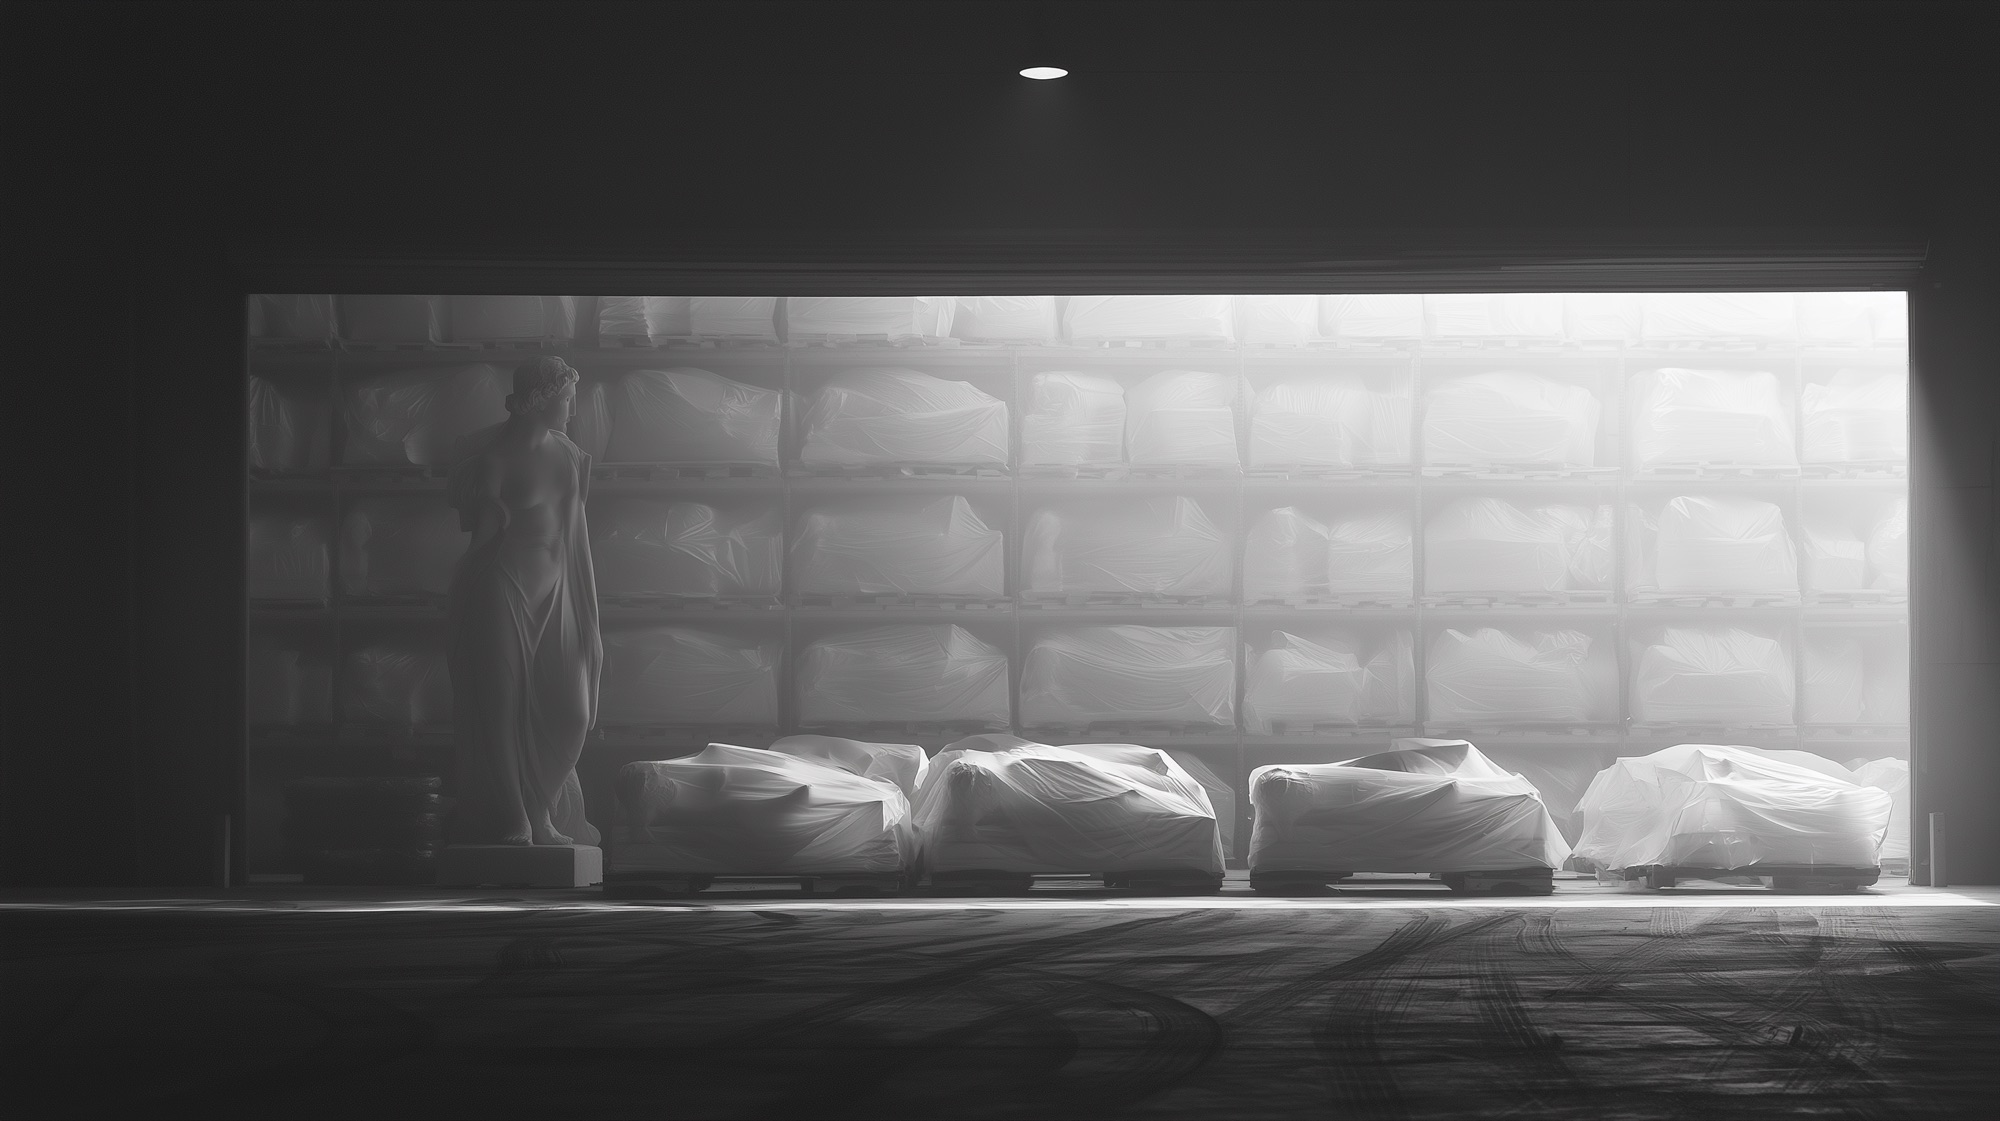
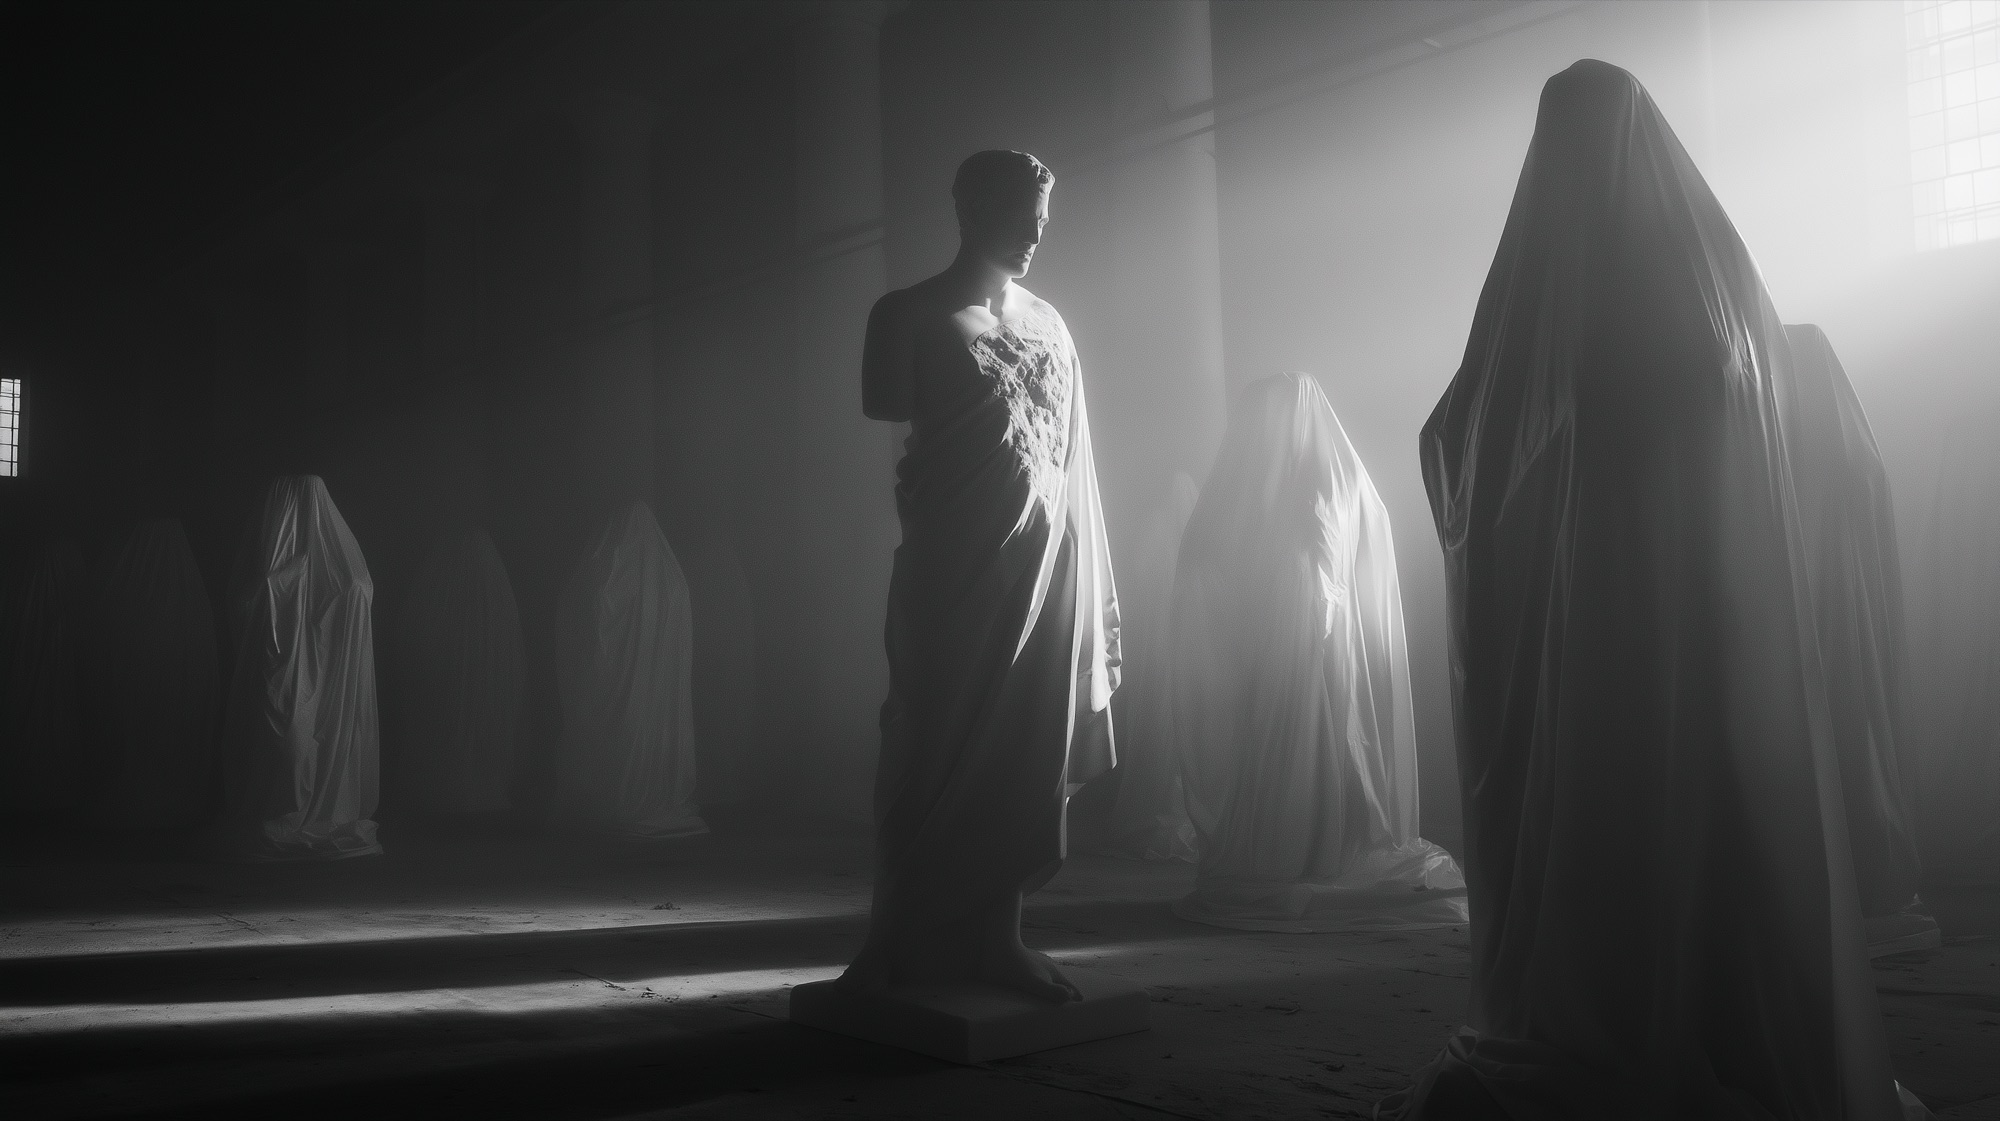
three plates and a new gate
The gate is the statue standing among the shrouded ones. Inside the
text, three plates break out of the reading column but stay short of
full bleed: the mold under the line about producing a certain kind of
good, the discarded head at the end of good is getting cheap, the
wrapped inventory under then what.

The light theme bakes all four now. It only ever bakes the gate before.

diff --git a/after/demo.html b/after/demo.html
@@ -88,6 +88,20 @@
   figure.gate canvas { display: none; position: absolute; inset: 0; }
   html.light figure.gate img { visibility: hidden; }
   html.light figure.gate canvas { display: block; }
+  /* the plates: three moments in the same hall. they break out of the
+     reading column but stay short of the gate, so the gate stays the
+     only full-bleed image */
+  figure.plate {
+    margin: 13vh 0; position: relative; left: 50%; transform: translateX(-50%);
+    width: min(860px, calc(100vw - 64px));
+  }
+  figure.plate .pw { position: relative; }
+  figure.plate img, figure.plate canvas {
+    display: block; width: 100%; height: auto;
+  }
+  figure.plate canvas { display: none; position: absolute; inset: 0; }
+  html.light figure.plate img { visibility: hidden; }
+  html.light figure.plate canvas { display: block; }
   /* listen: the article's own voice, drawn as it actually sounds. the
      bars are the recording, lit behind the playhead and dim ahead of it.
      press the word to start, press the sound to go somewhere */
@@ -174,7 +188,7 @@
 </header>
 <audio id="au" src="./audio.mp3" preload="metadata"></audio>
 <figure class="gate">
-  <img src="./hero.jpg" alt="Plaster casts of the same classical statue, stacked and shrink-wrapped on pallet racking in a concrete warehouse" />
+  <img src="./hero.jpg" alt="One unwrapped plaster cast of a classical statue standing among identical shrouded ones in a hazy hall" />
   <canvas aria-hidden="true"></canvas>
 </figure>
 <div class="player">
@@ -212,6 +226,9 @@
   <p>And a lot of good things came from it. We learned to reduce. We built component systems. We created common interaction patterns. We made increasingly complex software understandable to increasingly large audiences.</p>
   <p>But there was a side effect.</p>
   <p><strong>We became extremely good at producing a certain kind of good.</strong></p>
+  <figure class="plate">
+    <div class="pw"><img src="./negative.jpg" alt="An open plaster mold beside the head it was pulled from, standing in a shaft of light" loading="lazy" /><canvas aria-hidden="true"></canvas></div>
+  </figure>
   <p>Look at enough modern SaaS products and something becomes obvious. Most of them are not badly designed. Quite the opposite. They are remarkably competent.</p>
   <p>The typography works. The spacing works. The hierarchy works. The interactions make sense. And yet it can be surprisingly difficult to remember which one you were looking at five minutes later.</p>
   <p>We spent years codifying what good digital design looks like. We turned judgment into patterns. Patterns into components. Components into libraries. Libraries into systems.</p>
@@ -226,6 +243,9 @@
   <p>The baseline rises. What was impressive becomes expected. What was expensive becomes accessible.</p>
   <p>And when the cost of reaching the current standard collapses, we can use that efficiency in two ways. We can produce more of the existing standard. Or we can use it to move the standard.</p>
   <p>We will obviously do both. But creatively, I&#x27;m much more interested in the second.</p>
+  <figure class="plate">
+    <div class="pw"><img src="./rest.jpg" alt="A plaster head lying in a drift of its own dust, the wrapping torn open beside it" loading="lazy" /><canvas aria-hidden="true"></canvas></div>
+  </figure>
   <h2>The cost of curiosity has fallen</h2>
   <p>For years, there were countless things we simply didn&#x27;t do because they weren&#x27;t worth the effort. Details that would never survive prioritization. Experiments too expensive to validate. Ideas that required too much engineering. Entire directions that died with some version of: <em>that&#x27;s cool, but it&#x27;s too much work.</em></p>
   <p>Those constraints didn&#x27;t just determine how long things took. <strong>They shaped what we allowed ourselves to imagine.</strong></p>
@@ -246,6 +266,9 @@
   <p>And this changes what it means to be good at making them. If AI can increasingly reproduce what we currently consider good, then reproducing good cannot remain the thing that makes us valuable.</p>
   <p>And I don&#x27;t think the comforting answer is: <em>humans are creative, AI isn&#x27;t.</em> I wouldn&#x27;t bet my career on that assumption. AI will get better. The generic baseline will keep moving upward.</p>
   <p>So assume AI becomes exceptionally good at reproducing what we consider good today. Then what?</p>
+  <figure class="plate">
+    <div class="pw"><img src="./storage.jpg" alt="Identical plaster casts shrink-wrapped on pallet racking in a concrete warehouse" loading="lazy" /><canvas aria-hidden="true"></canvas></div>
+  </figure>
   <p>I think part of our job moves upstream. Toward judgment. Toward taste. Toward seeing cultural and technological shifts while they are happening. Toward connecting things that don&#x27;t yet obviously belong together. Toward deciding what deserves to exist before there is a pattern for it. Toward creating the references that tomorrow&#x27;s models will eventually learn from.</p>
   <p>AI can make the existing standard extraordinarily cheap. Our response shouldn&#x27;t be to defend the price of producing it. <strong>It should be to create what the new standard becomes.</strong></p>
   <h2>Move the standard</h2>
@@ -399,16 +422,15 @@ window.__solid = (mx, my) => {
 // ---- the gate in the light theme: the same photograph, rebuilt from
 // the theme's own two colors. shadows sink into the blue, light rises
 // into the yellow. baked once, on demand ----
-const gateImg = document.querySelector('figure.gate img');
-const gateCv = document.querySelector('figure.gate canvas');
-let duoBaked = false;
-function bakeDuo() {
-  if (duoBaked || !gateImg.naturalWidth) return;
-  const w = Math.min(1600, gateImg.naturalWidth);
-  const h = Math.round(gateImg.naturalHeight * w / gateImg.naturalWidth);
-  gateCv.width = w; gateCv.height = h;
-  const x = gateCv.getContext('2d');
-  x.drawImage(gateImg, 0, 0, w, h);
+const plates = [...document.querySelectorAll('figure.gate, figure.plate')]
+  .map(f => ({ img: f.querySelector('img'), cv: f.querySelector('canvas'), done: false }));
+function bakeOne(p) {
+  if (p.done || !p.img.naturalWidth) return;
+  const w = Math.min(1600, p.img.naturalWidth);
+  const h = Math.round(p.img.naturalHeight * w / p.img.naturalWidth);
+  p.cv.width = w; p.cv.height = h;
+  const x = p.cv.getContext('2d');
+  x.drawImage(p.img, 0, 0, w, h);
   const d = x.getImageData(0, 0, w, h);
   const px = d.data;
   for (let i = 0; i < px.length; i += 4) {
@@ -418,7 +440,13 @@ function bakeDuo() {
     px[i + 2] = 80 * (1 - l);
   }
   x.putImageData(d, 0, 0);
-  duoBaked = true;
+  p.done = true;
+}
+function bakeDuo() {
+  plates.forEach(p => {
+    if (p.img.complete) bakeOne(p);
+    else p.img.addEventListener('load', () => { if (anteTheme === 'light') bakeOne(p); }, { once: true });
+  });
 }
 
 // ---- theme: the host's light/dark reaches into the drop ----
@@ -426,10 +454,7 @@ let anteTheme = 'dark';
 try { if (localStorage.getItem('anteTheme') === 'light') anteTheme = 'light'; } catch (e) {}
 function applyAnteTheme() {
   document.documentElement.classList.toggle('light', anteTheme === 'light');
-  if (anteTheme === 'light') {
-    if (gateImg.complete) bakeDuo();
-    else gateImg.addEventListener('load', bakeDuo, { once: true });
-  }
+  if (anteTheme === 'light') bakeDuo();
 }
 addEventListener('message', e => { if (e.data && e.data.anteTheme) { anteTheme = e.data.anteTheme; applyAnteTheme(); } });
 applyAnteTheme();
